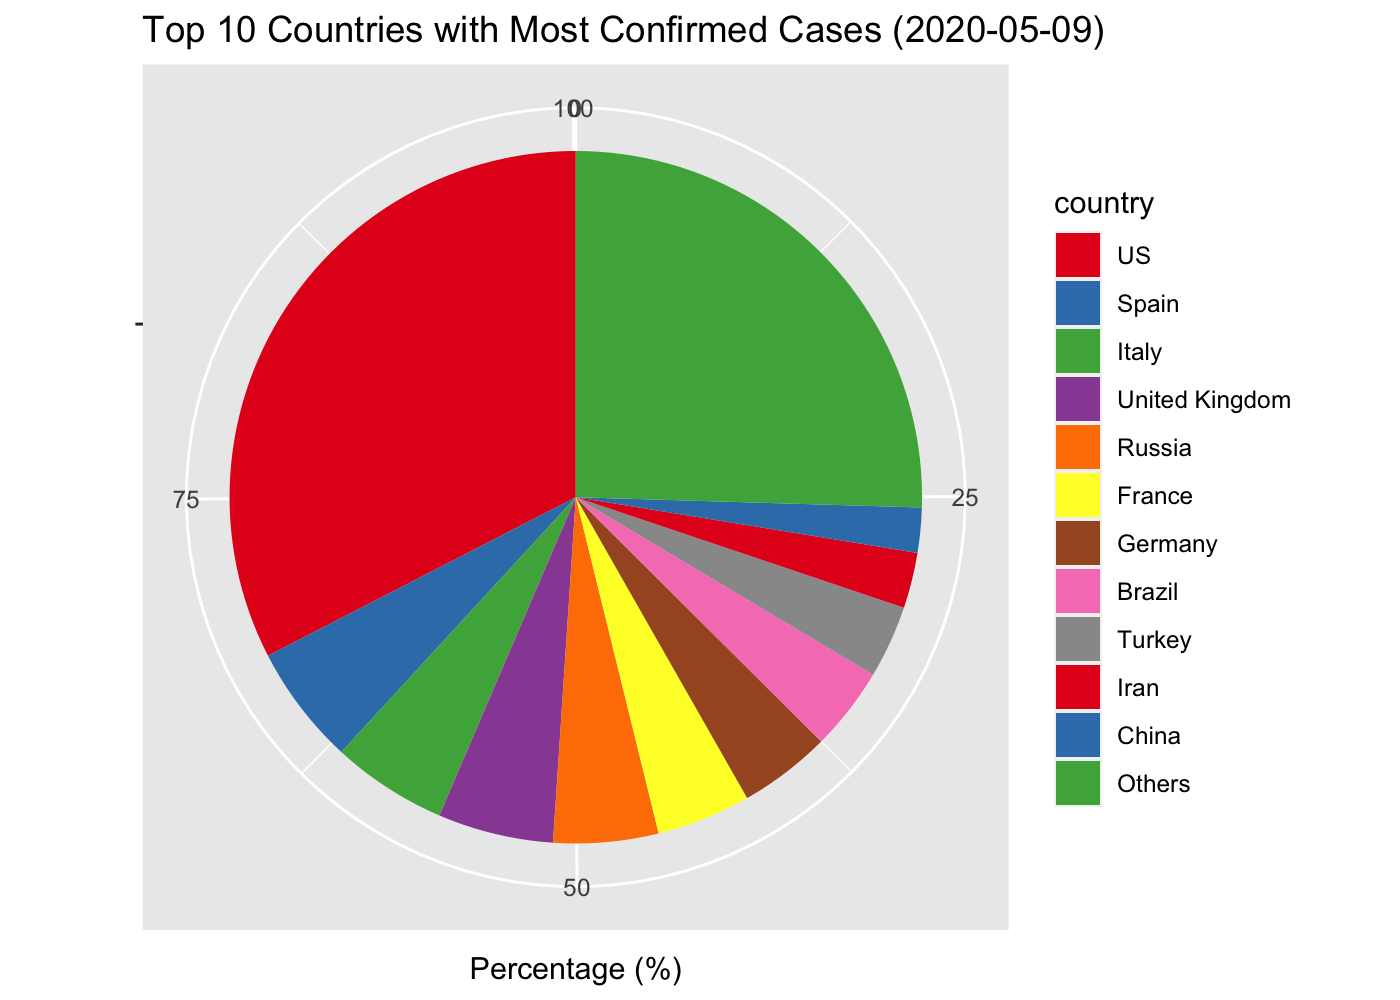
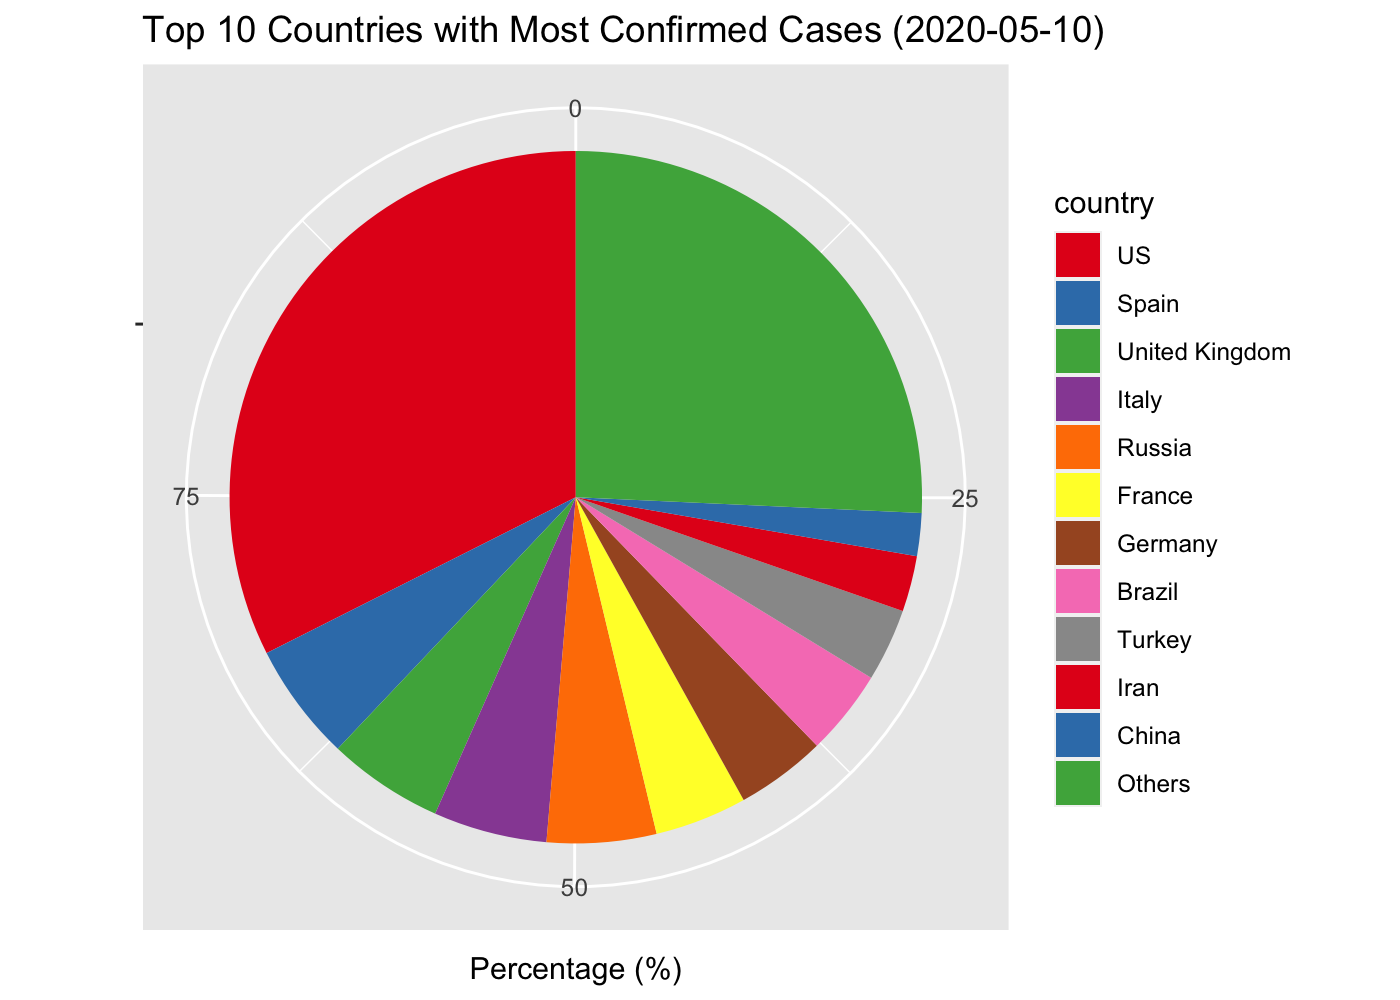
Updated up to 2020-05-10

diff --git a/README.md b/README.md
@@ -90,15 +90,15 @@ library(dplyr)
 ``` r
 data.processor <- COVID19DataProcessor$new(force.download = FALSE)
 dummy <- data.processor$setupData()
-#> INFO  [13:06:58.843]  {stage: data loaded}
+#> INFO  [00:20:32.719]  {stage: data loaded}
 dummy <- data.processor$curate()
 #> Warning in countrycode(x, origin = "country.name", destination = "continent"): Some values were not matched unambiguously: MS Zaandam
-#> INFO  [13:07:01.575]  {stage: consolidated}
-#> INFO  [13:07:02.405]  {stage: Starting first imputation}
-#> INFO  [13:07:02.406] Imputation indicator {indicator: confirmed}
-#> INFO  [13:07:02.442] Imputation indicator {indicator: recovered}
-#> INFO  [13:07:02.541] Imputation indicator {indicator: deaths}
-#> INFO  [13:07:04.022]  {stage: Calculating top countries}
+#> INFO  [00:20:35.444]  {stage: consolidated}
+#> INFO  [00:20:36.407]  {stage: Starting first imputation}
+#> INFO  [00:20:36.408] Imputation indicator {indicator: confirmed}
+#> INFO  [00:20:36.455] Imputation indicator {indicator: recovered}
+#> INFO  [00:20:36.557] Imputation indicator {indicator: deaths}
+#> INFO  [00:20:38.009]  {stage: Calculating top countries}
 current.date <- max(data.processor$data$date)
 
 rg <- ReportGeneratorEnhanced$new(data.processor)
@@ -121,27 +121,27 @@ latam.countries <- sort(c("Mexico",
   arrange(desc(confirmed.inc)) %>%
   filter(confirmed >=10))[1:10,]
 #>           country       date rate.inc.daily confirmed.inc confirmed deaths
-#> 1              US 2020-05-09           0.02         25621   1309550  78795
-#> 2          Russia 2020-05-09           0.06         10817    198676   1827
-#> 3          Brazil 2020-05-09           0.06          9167    156061  10656
-#> 4  United Kingdom 2020-05-09           0.02          3896    216525  31662
-#> 5            Peru 2020-05-09           0.05          3168     65015   1814
-#> 6           India 2020-05-09           0.05          3113     62808   2101
-#> 7        Pakistan 2020-05-09           0.09          2301     28736    636
-#> 8          Mexico 2020-05-09           0.06          1938     33460   3353
-#> 9    Saudi Arabia 2020-05-09           0.05          1704     37136    239
-#> 10         Turkey 2020-05-09           0.01          1546    137115   3739
+#> 1              US 2020-05-10           0.02         19710   1329260  79526
+#> 2          Russia 2020-05-10           0.06         11012    209688   1915
+#> 3          Brazil 2020-05-10           0.04          6638    162699  11123
+#> 4           India 2020-05-10           0.07          4353     67161   2212
+#> 5  United Kingdom 2020-05-10           0.02          3924    220449  31930
+#> 6            Peru 2020-05-10           0.04          2292     67307   1889
+#> 7    Saudi Arabia 2020-05-10           0.05          1912     39048    246
+#> 8           Chile 2020-05-10           0.06          1647     28866    312
+#> 9        Pakistan 2020-05-10           0.06          1598     30334    659
+#> 10         Mexico 2020-05-10           0.05          1562     35022   3465
 #>    deaths.inc imputation.confirmed
-#> 1        1615                     
-#> 2         104                     
-#> 3         639                     
-#> 4         346                     
-#> 5         100                     
-#> 6         116                     
-#> 7          37                     
-#> 8         193                     
-#> 9          10                     
-#> 10         50
+#> 1         731                     
+#> 2          88                     
+#> 3         467                     
+#> 4         111                     
+#> 5         268                     
+#> 6          75                     
+#> 7           7                     
+#> 8           8                     
+#> 9          23                     
+#> 10        112
 ```
 
 ``` r
@@ -151,27 +151,27 @@ latam.countries <- sort(c("Mexico",
   select(country, date, rate.inc.daily, confirmed.inc, confirmed, deaths, deaths.inc, imputation.confirmed) %>%
   arrange(desc(deaths.inc)))[1:10,]
 #>           country       date rate.inc.daily confirmed.inc confirmed deaths
-#> 1              US 2020-05-09           0.02         25621   1309550  78795
-#> 2          Brazil 2020-05-09           0.06          9167    156061  10656
-#> 3  United Kingdom 2020-05-09           0.02          3896    216525  31662
-#> 4           Italy 2020-05-09           0.00          1083    218268  30395
-#> 5          Mexico 2020-05-09           0.06          1938     33460   3353
-#> 6           Spain 2020-05-09           0.00           721    223578  26478
-#> 7          Canada 2020-05-09           0.02          1244     68918   4823
-#> 8           India 2020-05-09           0.05          3113     62808   2101
-#> 9          Russia 2020-05-09           0.06         10817    198676   1827
-#> 10           Peru 2020-05-09           0.05          3168     65015   1814
+#> 1              US 2020-05-10           0.02         19710   1329260  79526
+#> 2          Brazil 2020-05-10           0.04          6638    162699  11123
+#> 3         Ecuador 2020-05-10           0.02           488     29559   2127
+#> 4  United Kingdom 2020-05-10           0.02          3924    220449  31930
+#> 5          Canada 2020-05-10           0.02          1173     70091   4991
+#> 6           Italy 2020-05-10           0.00           802    219070  30560
+#> 7           Spain 2020-05-10           0.00           772    224350  26621
+#> 8          Mexico 2020-05-10           0.05          1562     35022   3465
+#> 9           India 2020-05-10           0.07          4353     67161   2212
+#> 10         Russia 2020-05-10           0.06         11012    209688   1915
 #>    deaths.inc imputation.confirmed
-#> 1        1615                     
-#> 2         639                     
-#> 3         346                     
-#> 4         194                     
-#> 5         193                     
-#> 6         179                     
-#> 7         126                     
-#> 8         116                     
-#> 9         104                     
-#> 10        100
+#> 1         731                     
+#> 2         467                     
+#> 3         410                     
+#> 4         268                     
+#> 5         168                     
+#> 6         165                     
+#> 7         143                     
+#> 8         112                     
+#> 9         111                     
+#> 10         88
 ```
 
 ``` r
